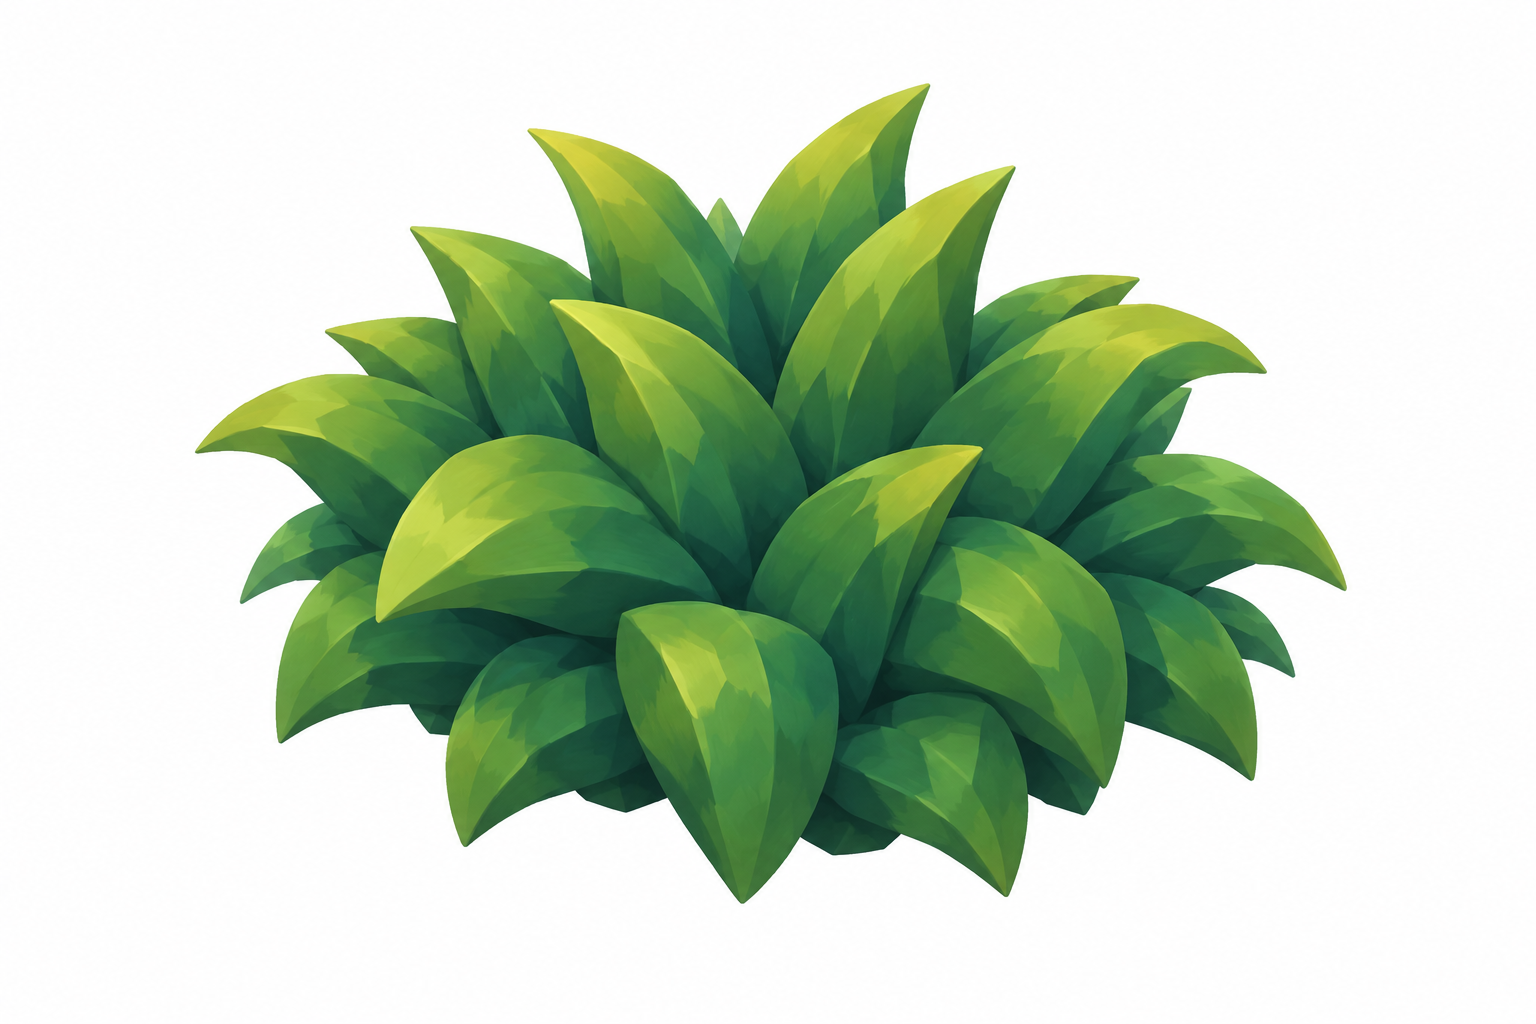
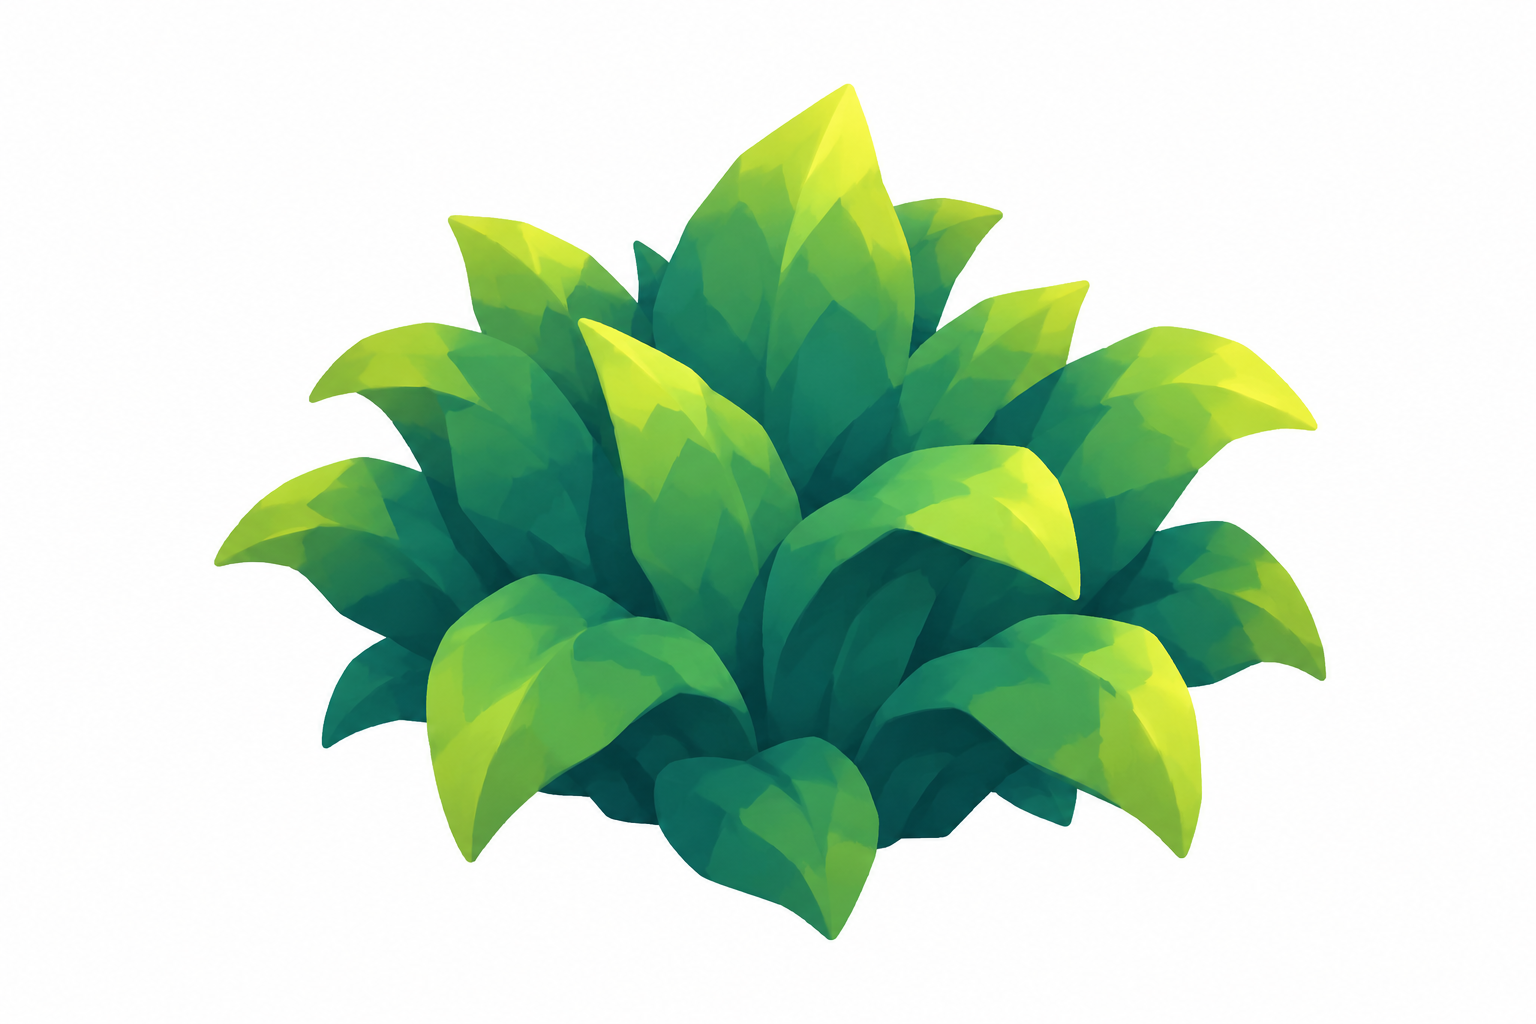
art: redo K0 map kit concepts for style v2

diff --git a/art_inbox/YEU_CAU_KIT_MAP.md b/art_inbox/YEU_CAU_KIT_MAP.md
@@ -70,13 +70,15 @@ with identical cross-section, constant thickness and height along the whole leng
 
 ## Đợt K0 — Thử phong cách (4 ảnh) — làm rồi DỪNG
 
-- [ ] `vach_48.png` — viền đá 4,8 × 1,2 × 1,2 m (**4 : 1 : 1**). 3–4 khối đá to mượt liền thành gờ thấp,
+- [x] `vach_48.png` — viền đá 4,8 × 1,2 × 1,2 m (**4 : 1 : 1**). 3–4 khối đá to mượt liền thành gờ thấp,
   cỏ phủ mặt trên tràn nhẹ xuống mép.
-- [ ] `bo_song_48.png` — bờ sông 4,8 × 1,2 × 0,5 m. Gờ đá thấp: một cạnh dài mép cỏ, cạnh kia **mặt đá
+- [x] `bo_song_48.png` — bờ sông 4,8 × 1,2 × 0,5 m. Gờ đá thấp: một cạnh dài mép cỏ, cạnh kia **mặt đá
   dốc tối ướt** xuống nước.
-- [ ] `cay_tron_a.png` — một cây tán tròn, tán Ø 2,4 m, cao 2,8 m; 4–5 chùm lá to, ba tầng sắc
+- [x] `cay_tron_a.png` — một cây tán tròn, tán Ø 2,4 m, cao 2,8 m; 4–5 chùm lá to, ba tầng sắc
   (vàng xanh / xanh lá / xanh lam đậm) như mục Phong cách.
-- [ ] `bui_a.png` — cụm cỏ 1,2 × 1,2 × 0,6 m, lá to, khối đặc, ngọn sáng gốc tối.
+- [x] `bui_a.png` — cụm cỏ 1,2 × 1,2 × 0,6 m, lá to, khối đặc, ngọn sáng gốc tối.
+
+K0 làm lại theo bản 2: bản 1 có vách giống tường gạch và mảng rừng nguyên khối, không đạt phong cách mới.
 
 ## Đợt K1 — Dãy đá (game uốn cong theo đường)
 
